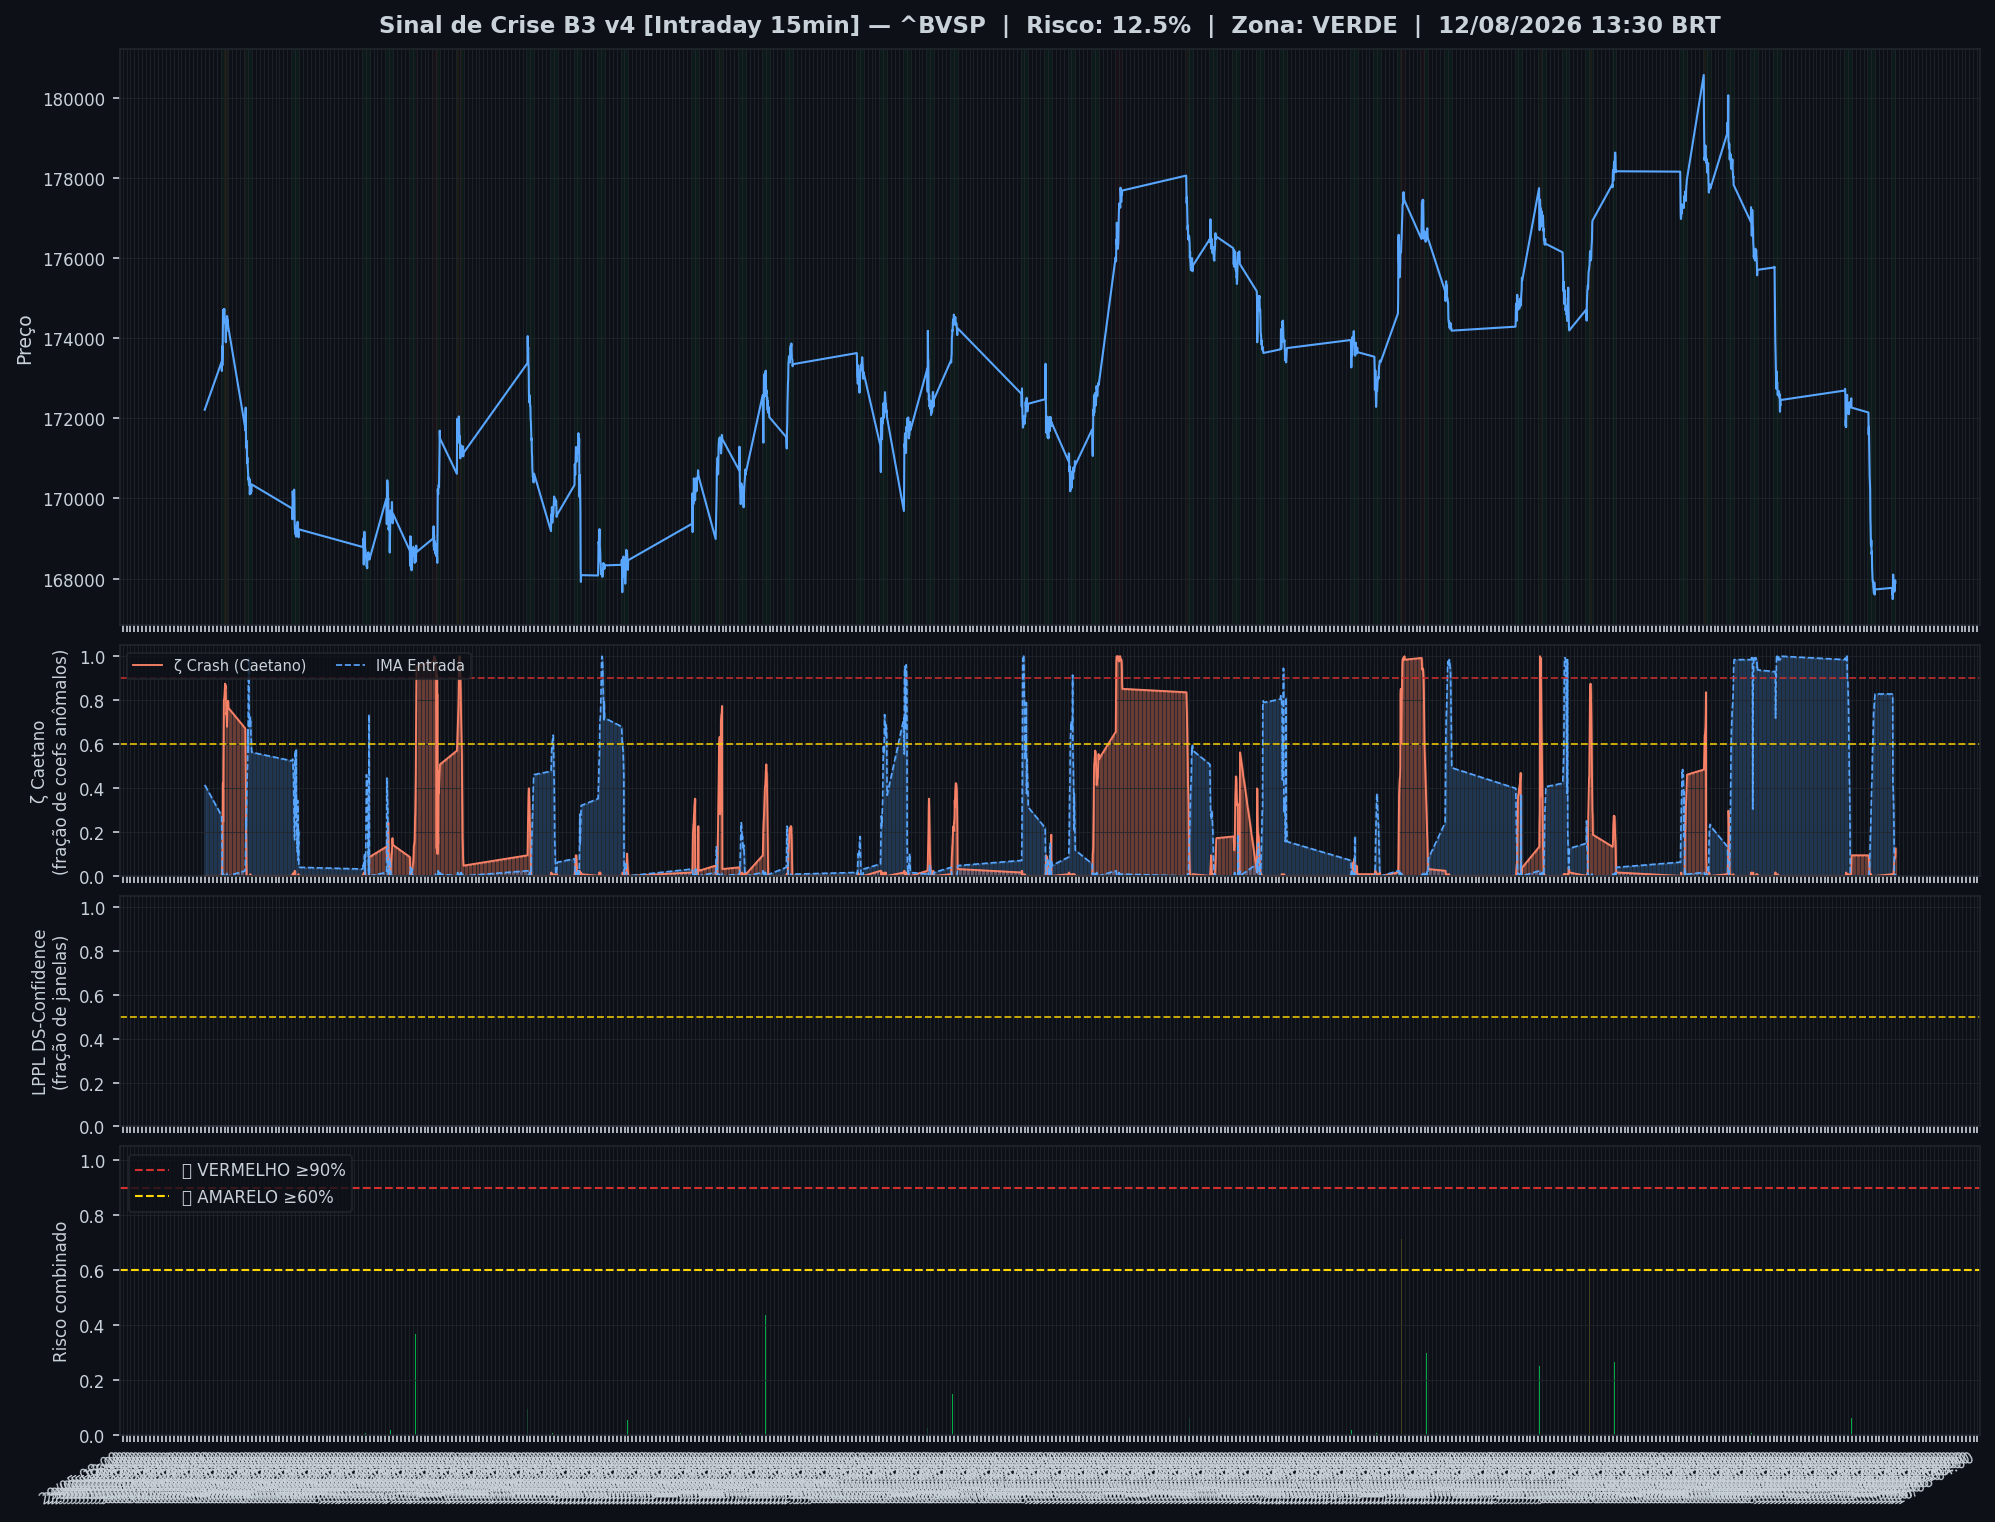
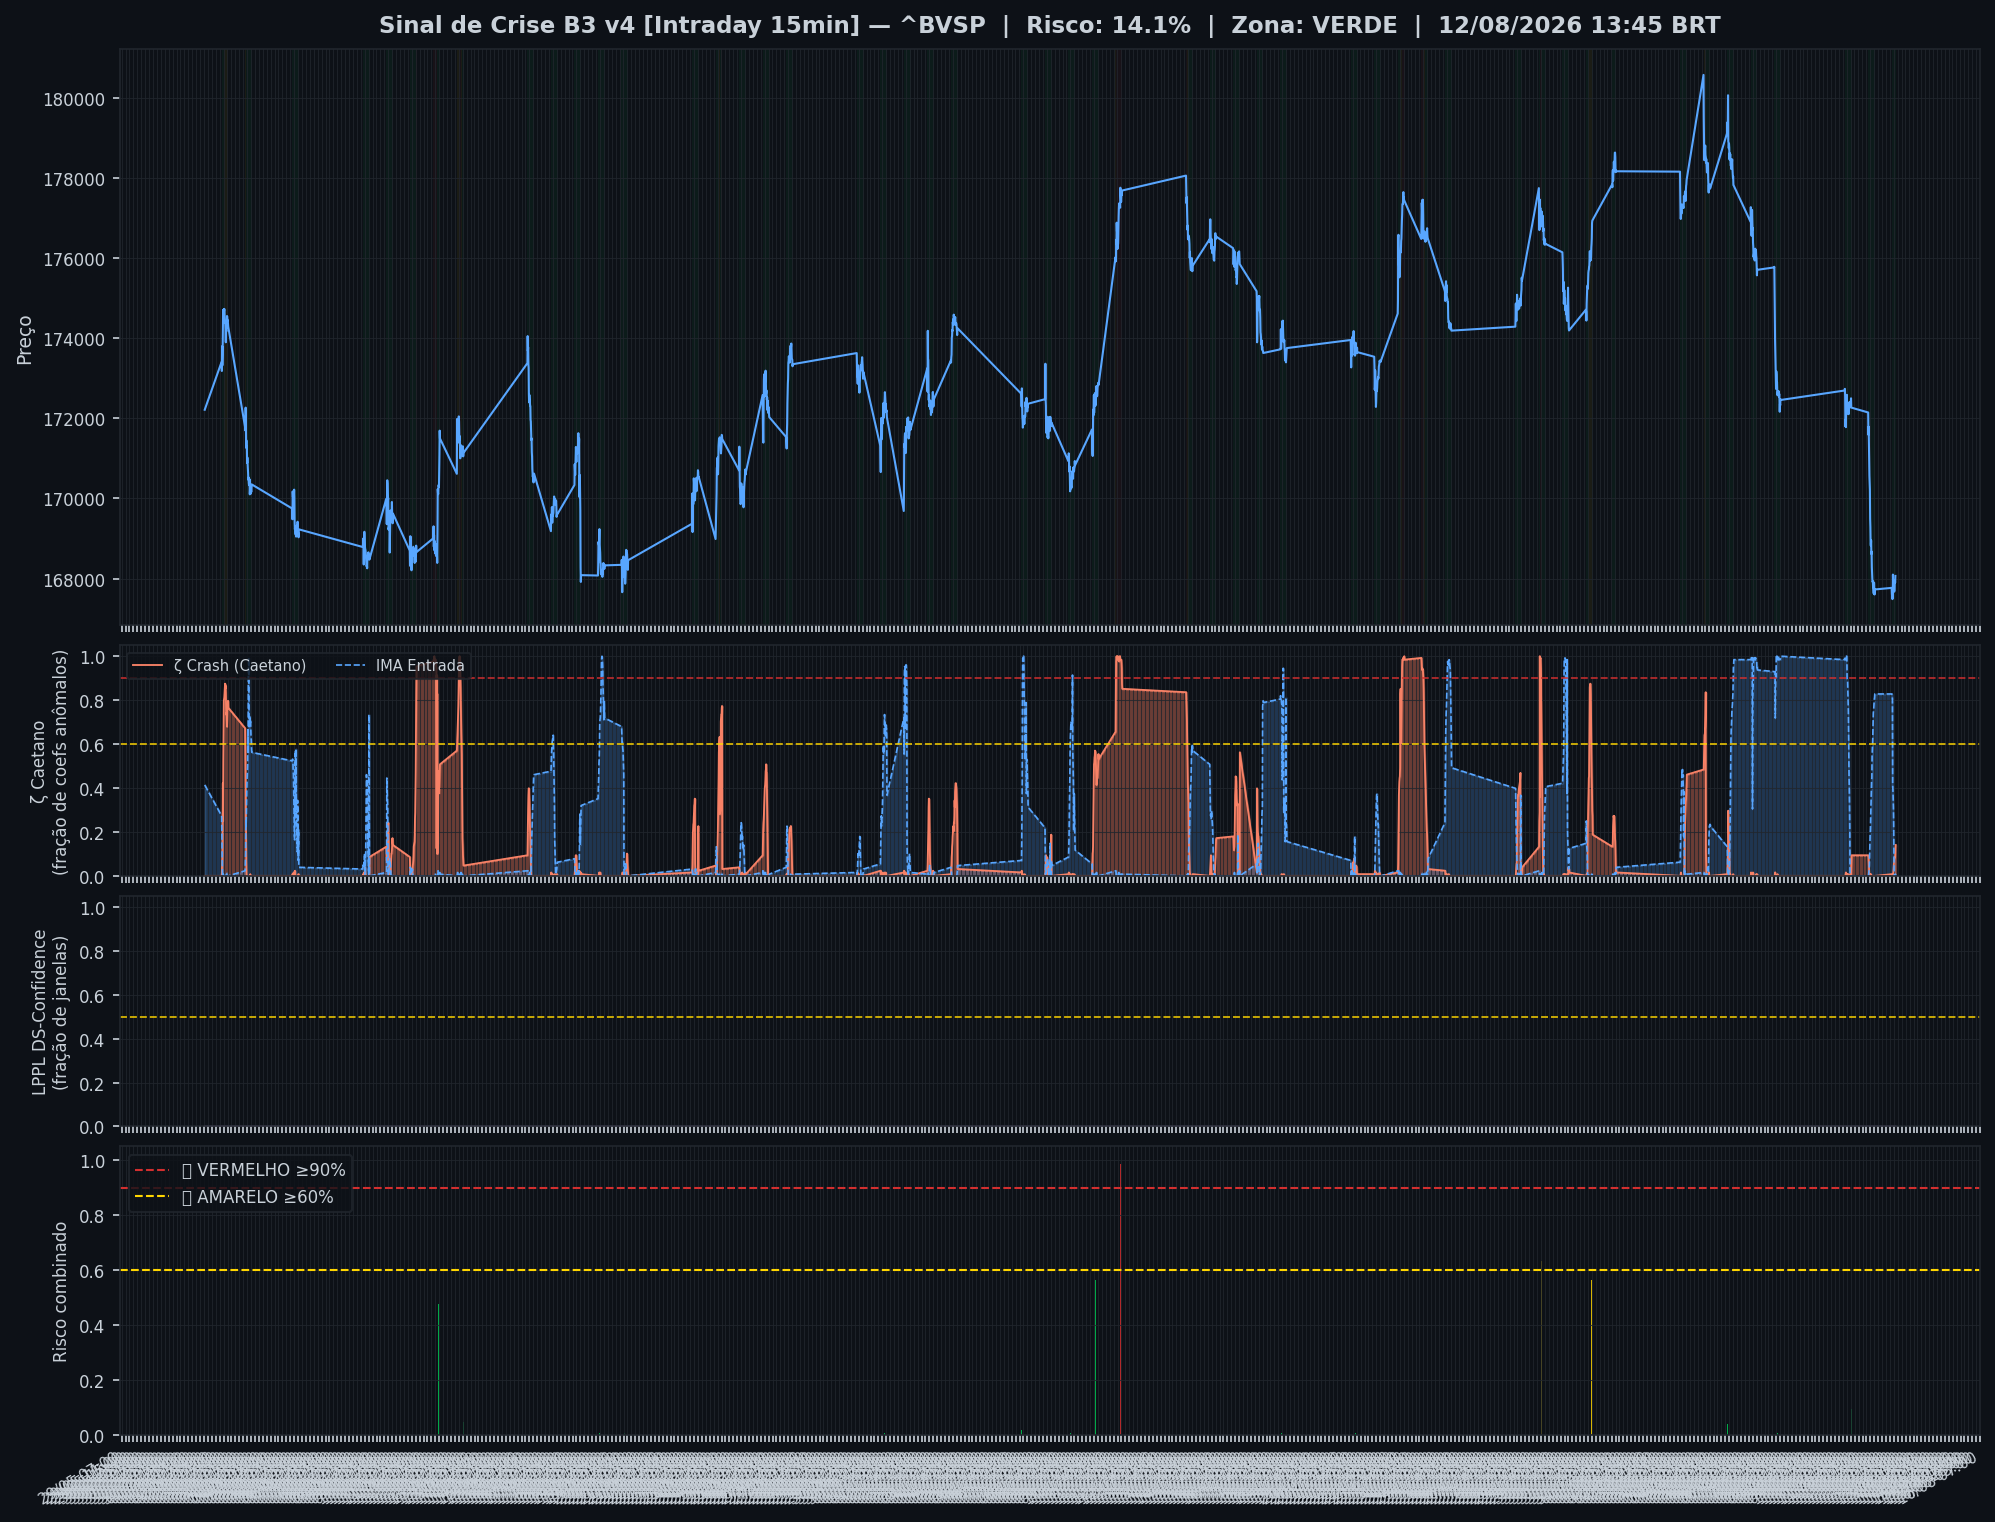
🤖 Auto: Sinal 12/08/2026 14:30

diff --git a/content/intraday/2026-08-12.md b/content/intraday/2026-08-12.md
@@ -1,20 +1,20 @@
 ---
-title: "🟢 Intraday 12/08/2026 13:30 BRT — VERDE"
+title: "🟢 Intraday 12/08/2026 13:45 BRT — VERDE"
 date: 2026-08-12
 tags: [intraday]
 ---
 
-> [!success] 🟢 **VERDE** — Risco 12% · ▲ +4 p.p. vs leitura anterior
-> `██░░░░░░░░░░░░░░░░░░`
+> [!success] 🟢 **VERDE** — Risco 14% · ▲ +2 p.p. vs leitura anterior
+> `███░░░░░░░░░░░░░░░░░`
 > Mercado sem sinais relevantes de estresse.
 
 
 | Indicador | Valor |
 |---|---|
-| 🔴 ζ Crash — severidade da queda em curso | **12%** |
-| 🔵 ζ Entrada — estrutura de fundo | 1% |
+| 🔴 ζ Crash — severidade da queda em curso | **14%** |
+| 🔵 ζ Entrada — estrutura de fundo | 0% |
 | 🫧 LPPL DS-Confidence | 0% |
-| 📊 Ibovespa | 167.898 pts |
+| 📊 Ibovespa | 168.066 pts |
 
 ![Gráfico do sinal](../graficos/sinal_intraday.png)
 
@@ -22,6 +22,7 @@ tags: [intraday]
 
 | Data | Zona | Risco | IMA Crash | Entrada | LPPL |
 |---|---|---|---|---|---|
+| 2026-08-12 13:45 | 🟢 VERDE | **14%** | 14% | 0% | 0% |
 | 2026-08-12 13:30 | 🟢 VERDE | **12%** | 12% | 1% | 0% |
 | 2026-08-12 13:15 | 🟢 VERDE | **9%** | 9% | 1% | 0% |
 | 2026-08-12 13:00 | 🟢 VERDE | **9%** | 9% | 0% | 0% |
@@ -51,7 +52,6 @@ tags: [intraday]
 | 2026-08-11 14:00 | 🟢 VERDE | **0%** | 0% | 58% | 0% |
 | 2026-08-11 13:45 | 🟢 VERDE | **0%** | 0% | 55% | 0% |
 | 2026-08-11 13:30 | 🟢 VERDE | **0%** | 0% | 45% | 0% |
-| 2026-08-11 13:15 | 🟢 VERDE | **0%** | 0% | 44% | 0% |
 
 ## Monitor Multi-Ativo
 
@@ -59,36 +59,36 @@ tags: [intraday]
 
 | Zona | Ativo | Setor | IMA Crash | IMA Entrada |
 |---|---|---|---|---|
-| 🟢 | **VALE** | Mineração | 0.0% | 42.2% |
-| 🟢 | **ITAUUNIBANCO** | Financeiro | 0.0% | 42.2% |
-| 🟢 | **PETROBRAS** | Petróleo | 0.0% | 42.2% |
-| 🟢 | **AXIA ENERGIA** | Energia | 0.0% | 42.2% |
-| 🟢 | **PETROBRAS** | Petróleo | 0.0% | 42.2% |
-| 🟢 | **BRADESCO** | Financeiro | 0.0% | 42.2% |
-| 🟢 | **ITAUSA** | Financeiro | 0.0% | 42.2% |
-| 🟢 | **SABESP** | Saneamento | 0.0% | 42.2% |
-| 🟢 | **B3** | Financeiro | 0.0% | 42.2% |
-| 🟢 | **WEG** | Industrial | 0.0% | 42.2% |
-| 🟢 | **EMBRAER** | Outros | 0.0% | 42.2% |
-| 🟢 | **AMBEV S/A** | Consumo | 0.0% | 42.2% |
-| 🟢 | **BTGP BANCO** | Financeiro | 0.0% | 42.2% |
-| 🟢 | **BRASIL** | Financeiro | 0.0% | 42.2% |
-| 🟢 | **ENEVA** | Energia | 0.0% | 42.2% |
-| 🟢 | **PRIO** | Petróleo | 0.0% | 42.2% |
-| 🟢 | **EQUATORIAL** | Energia | 0.0% | 42.2% |
-| 🟢 | **COPEL** | Energia | 0.0% | 42.2% |
-| 🟢 | **VIBRA** | Energia | 0.0% | 42.2% |
-| 🟢 | **REDE D OR** | Saúde | 0.0% | 42.2% |
-| 🟢 | **LOCALIZA** | Aluguel | 0.0% | 42.2% |
-| 🟢 | **ULTRAPAR** | Outros | 0.0% | 42.2% |
-| 🟢 | **GERDAU** | Siderurgia | 0.0% | 42.2% |
-| 🟢 | **SUZANO S.A.** | Papel/Celulose | 0.0% | 42.2% |
-| 🟢 | **RAIADROGASIL** | Outros | 0.0% | 42.2% |
-| 🟢 | **USD/BRL** | Câmbio | 0.0% | 46.9% |
+| 🟢 | **VALE** | Mineração | 0.0% | 46.9% |
+| 🟢 | **ITAUUNIBANCO** | Financeiro | 0.0% | 46.9% |
+| 🟢 | **PETROBRAS** | Petróleo | 0.0% | 46.9% |
+| 🟢 | **AXIA ENERGIA** | Energia | 0.0% | 46.9% |
+| 🟢 | **PETROBRAS** | Petróleo | 0.0% | 46.9% |
+| 🟢 | **BRADESCO** | Financeiro | 0.0% | 46.9% |
+| 🟢 | **ITAUSA** | Financeiro | 0.0% | 46.9% |
+| 🟢 | **SABESP** | Saneamento | 0.0% | 46.9% |
+| 🟢 | **B3** | Financeiro | 0.0% | 46.9% |
+| 🟢 | **WEG** | Industrial | 0.0% | 46.9% |
+| 🟢 | **EMBRAER** | Outros | 0.0% | 46.9% |
+| 🟢 | **AMBEV S/A** | Consumo | 0.0% | 46.9% |
+| 🟢 | **BTGP BANCO** | Financeiro | 0.0% | 46.9% |
+| 🟢 | **BRASIL** | Financeiro | 0.0% | 46.9% |
+| 🟢 | **ENEVA** | Energia | 0.0% | 46.9% |
+| 🟢 | **PRIO** | Petróleo | 0.0% | 46.9% |
+| 🟢 | **EQUATORIAL** | Energia | 0.0% | 46.9% |
+| 🟢 | **COPEL** | Energia | 0.0% | 46.9% |
+| 🟢 | **VIBRA** | Energia | 0.0% | 46.9% |
+| 🟢 | **REDE D OR** | Saúde | 0.0% | 46.9% |
+| 🟢 | **LOCALIZA** | Aluguel | 0.0% | 46.9% |
+| 🟢 | **ULTRAPAR** | Outros | 0.0% | 46.9% |
+| 🟢 | **GERDAU** | Siderurgia | 0.0% | 46.9% |
+| 🟢 | **SUZANO S.A.** | Papel/Celulose | 0.0% | 46.9% |
+| 🟢 | **RAIADROGASIL** | Outros | 0.0% | 46.9% |
+| 🟢 | **USD/BRL** | Câmbio | 0.0% | 27.3% |
 
 ![Monitor multi-ativo](../graficos/multi_intraday.png)
 
-*Página atualizada em 12/08/2026 14:15 BRT (leitura da barra de 2026-08-12 13:30 BRT).*
+*Página atualizada em 12/08/2026 14:30 BRT (leitura da barra de 2026-08-12 13:45 BRT).*
 
 > [!info]- Como interpretar (clique para expandir)
 > - **ζ Crash**: fração dos coeficientes wavelet acima do corte (Caetano & Yoneyama 2009). Escala absoluta: ζ=0,90 = 90% dos coeficientes anômalos — historicamente, quedas com ζ≥0,90 foram mais fundas e mais longas. **Mede a severidade do movimento em curso, não prevê o início da queda.**

diff --git a/content/index.md b/content/index.md
@@ -8,19 +8,19 @@ tags: [home]
 
 Monitoramento diário e intraday do Ibovespa — **IMA Wavelet** (Prof. Marco Antonio Leonel Caetano, ITA/INSPER) + **LPPL DS-Confidence** (Prof. Didier Sornette, ETH-Zurich).
 
-*Última atualização: 12/08/2026 14:15 BRT · ^BVSP · Intraday 15min · v4*
+*Última atualização: 12/08/2026 14:30 BRT · ^BVSP · Intraday 15min · v4*
 
-> [!success] 🟢 **VERDE** — Risco 12% · ▲ +4 p.p. vs leitura anterior
-> `██░░░░░░░░░░░░░░░░░░`
+> [!success] 🟢 **VERDE** — Risco 14% · ▲ +2 p.p. vs leitura anterior
+> `███░░░░░░░░░░░░░░░░░`
 > Mercado sem sinais relevantes de estresse.
 
 
 | Indicador | Valor |
 |---|---|
-| 🔴 ζ Crash — severidade da queda em curso | **12%** |
-| 🔵 ζ Entrada — estrutura de fundo | 1% |
+| 🔴 ζ Crash — severidade da queda em curso | **14%** |
+| 🔵 ζ Entrada — estrutura de fundo | 0% |
 | 🫧 LPPL DS-Confidence | 0% |
-| 📊 Ibovespa | 167.898 pts |
+| 📊 Ibovespa | 168.066 pts |
 
 **Multi-ativo:** 0% em tensão (0🔴 0🟡 de 26 ativos)
 
@@ -32,7 +32,7 @@ Monitoramento diário e intraday do Ibovespa — **IMA Wavelet** (Prof. Marco An
 
 | Data | Zona | Risco | IMA | LPPL |
 |---|---|---|---|---|
-| [12 Aug 2026](diario/2026-08-12) | 🟢 VERDE | **12%** | 12% | 0% |
+| [12 Aug 2026](diario/2026-08-12) | 🟢 VERDE | **14%** | 14% | 0% |
 | [11 Aug 2026](diario/2026-08-11) | 🟢 VERDE | **0%** | 0% | 0% |
 
 ## Navegação

diff --git a/content/historico.md b/content/historico.md
@@ -7,6 +7,7 @@ tags: [historico]
 
 | Data | Modo | Zona | Risco | IMA | LPPL |
 |---|---|---|---|---|---|
+| 2026-08-12 13:45 | intraday | 🟢 VERDE | 14% | 14% | 0% |
 | 2026-08-12 13:30 | intraday | 🟢 VERDE | 12% | 12% | 0% |
 | 2026-08-12 13:15 | intraday | 🟢 VERDE | 9% | 9% | 0% |
 | 2026-08-12 13:00 | intraday | 🟢 VERDE | 9% | 9% | 0% |
